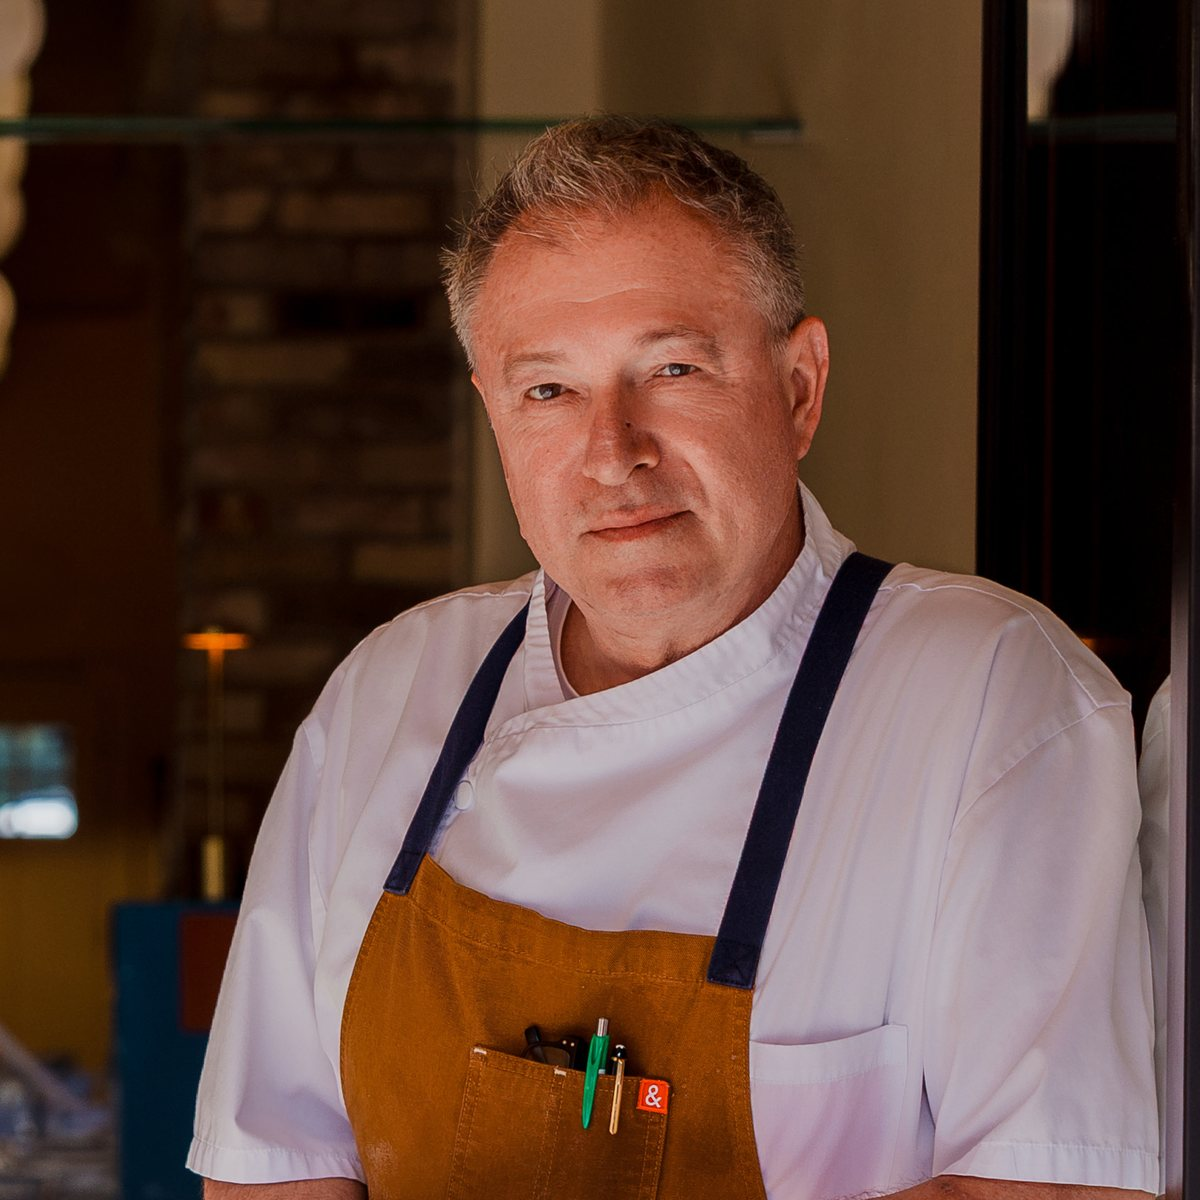
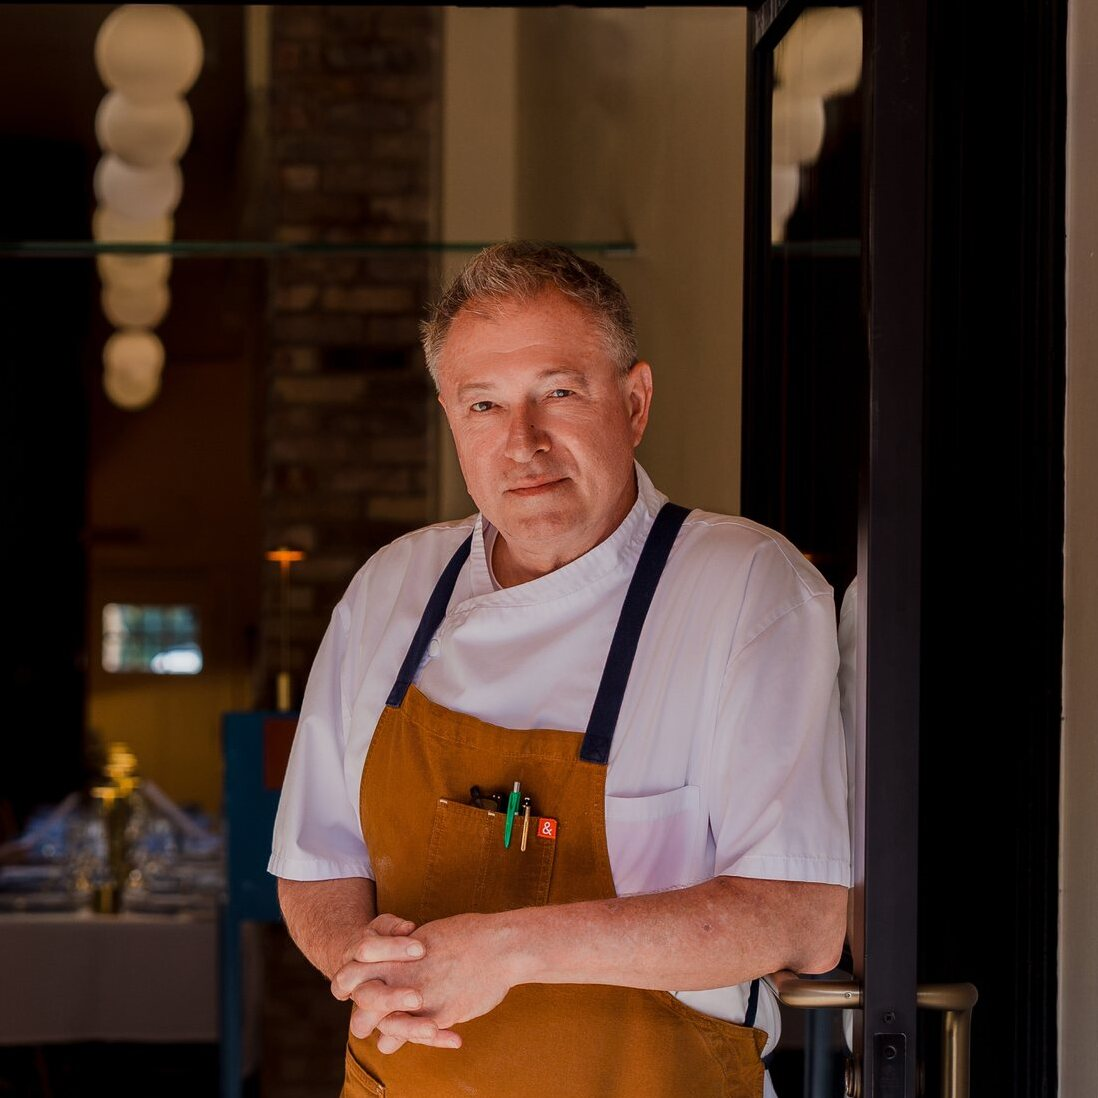
Launch-day photos: Kim and Dillon portraits, sign share image, sharper crops, crème brûlée
- Our story: Kim's card uses her own portrait (kim.jpg) instead of kim-and-eric.jpg;
  Dillon's card uses the new straight-on portrait with new alt text.
- Share image: the Kismet sign (share-sign.jpg) replaces the dining room as the
  Open Graph and Twitter image on every page.
- Sharper copies of dining-room, table-lamp, crab-cake, tenderloin, trout and chris,
  with -sm versions remade the same way as before (half size, progressive).
- eric-portrait.jpg keeps its current framing: the new upload was cropped much
  tighter, so the round portrait is cut from the same frame in eric-doorway.jpg.
- Dessert photo is the crème brûlée from above (home menu preview, Menus page,
  Thanks page). The galette line under it on the Menus page is cleared, and the
  page now skips that line when it's empty. galette.jpg stays in the repo.

Claude-Session: https://claude.ai/code/session_01PVR8TApNsLSiVKnCtcgQev

diff --git a/src/app/(site)/story/page.tsx b/src/app/(site)/story/page.tsx
@@ -24,8 +24,7 @@ const TEAM: Person[] = [
     name: 'Kim Sinclair',
     role: 'Co-owner',
     bio: 'Kim co-owns Kismet with Eric. She’s the restaurant’s sounding board, and some evenings she’s the one who greets you at the door.',
-    // Every photo of Kim from the shoot has Eric beside her, so her card shows both owners.
-    photo: { src: '/photos/kim-and-eric.jpg', alt: 'Kim Sinclair and Chef Eric Gallanter in the front doorway of Kismet' },
+    photo: { src: '/photos/kim.jpg', alt: 'Kim Sinclair in the front doorway of Kismet' },
   },
   {
     name: 'Chris Townsend',
@@ -37,7 +36,7 @@ const TEAM: Person[] = [
     name: 'Dillon',
     role: 'Bar manager',
     bio: 'Dillon runs the bar.',
-    photo: { src: '/photos/dillon.jpg', alt: 'Dillon shaking a cocktail behind the Kismet bar', position: '50% 30%' },
+    photo: { src: '/photos/dillon.jpg', alt: 'Dillon, bar manager, smiling in front of the wine shelves at the bar', position: '50% 30%' },
   },
   {
     name: 'Lacey',

diff --git a/src/app/(site)/menus/page.tsx b/src/app/(site)/menus/page.tsx
@@ -101,9 +101,11 @@ export default function MenusPage() {
           <CourseHead title="Dessert" sub="Choose one" id="dessert" />
           <Dishes items={menu.dessert} />
           <Photo src={menu.photos.dessert.image} alt={menu.photos.dessert.alt} className="after__photo" sizes="(min-width: 1080px) 40vw, 100vw" />
-          <p className="caption" style={{ paddingTop: 8 }}>
-            {menu.galetteNote}
-          </p>
+          {menu.galetteNote ? (
+            <p className="caption" style={{ paddingTop: 8 }}>
+              {menu.galetteNote}
+            </p>
+          ) : null}
         </div>
         <div className="after__more stack" style={{ ['--gap' as string]: '28px' }}>
           <CourseHead title="After dinner" sub="By the bottle or the pour" id="after" />

diff --git a/src/app/(bare)/thanks/page.tsx b/src/app/(bare)/thanks/page.tsx
@@ -47,7 +47,12 @@ export default function ThanksPage() {
         </div>
         <div className="thanks__mirror">
           <Mirror>
-            <Photo src="/photos/galette-sm.jpg" alt="A berry galette with cream and mint" sizes="176px" priority />
+            <Photo
+              src="/photos/creme-brulee-above-sm.jpg"
+              alt="Crème brûlée on a paper liner stamped with the Kismet logo, seen from above"
+              sizes="176px"
+              priority
+            />
           </Mirror>
         </div>
         <h1 className="thanks__title">Thank you for joining us.</h1>

diff --git a/CLAUDE.md b/CLAUDE.md
@@ -13,7 +13,7 @@ This is the website for Kismet, a seasonal fine-dining restaurant at 909 Main St
 
 ## Common requests
 
-- **New menu:** the menu changes when ingredients come and go, not monthly. Update `content/menu.json` (`updated`, the three courses, photos and captions, PDF path). Put the new PDF in `public/pdf` and new photos in `public/photos`. Check whether `content/drinks.json` should change too. The Links and Thanks pages show the crab cake and the galette; swap those photos if the dishes leave the menu.
+- **New menu:** the menu changes when ingredients come and go, not monthly. Update `content/menu.json` (`updated`, the three courses, photos and captions, PDF path). Put the new PDF in `public/pdf` and new photos in `public/photos`. Check whether `content/drinks.json` should change too. The Links and Thanks pages show the crab cake and the crème brûlée; swap those photos if the dishes leave the menu.
 - **Closed for a holiday:** add the date to `closedDates` in `content/hours.json`, and turn on `notice` with a short line if Kim wants one.
 - **Press:** add the article to `press` in `content/site.json`, newest first, and the outlet to `featuredBy` if it's new.
 

diff --git a/README.md b/README.md
@@ -39,7 +39,7 @@ The menu changes when ingredients come and go, not on a schedule. The site shows
 1. Upload the new menu PDF (and wine list PDF if it changed).
 2. In *The menu*: change the date updated, the dishes and, if needed, the photos and captions.
 3. Check the home page menu preview and the Menus page on your phone.
-4. The Links and Thanks pages show the crab cake and the galette. If either leaves the menu, ask Claude to swap the photo.
+4. The Links and Thanks pages show the crab cake and the crème brûlée. If either leaves the menu, ask Claude to swap the photo.
 
 **A holiday or a private buyout**
 
